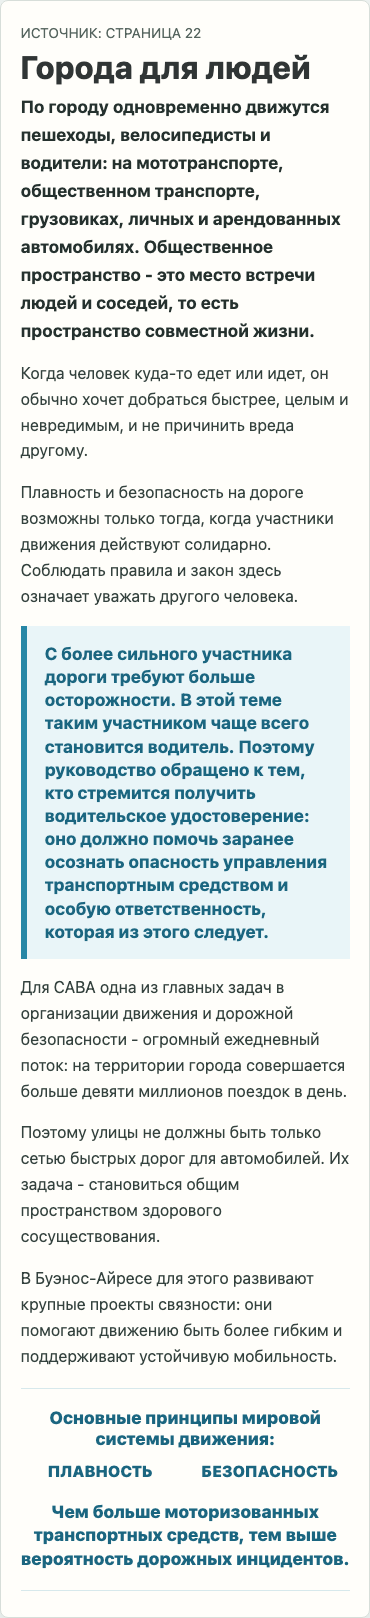
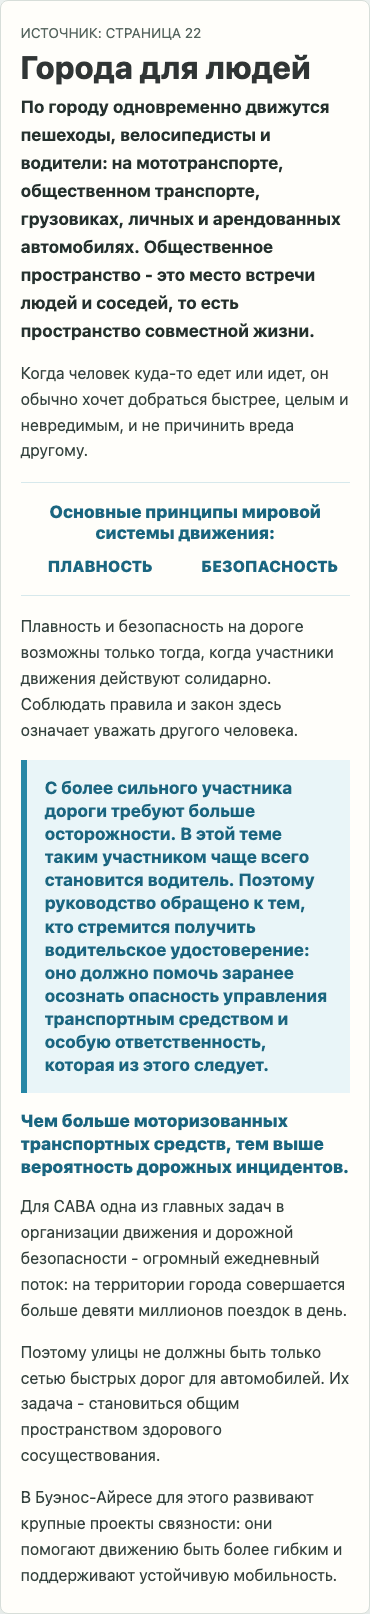
Restore Chapter 1 principles crop order

diff --git a/src/data/manual-sections/ch1-cities-for-people.ts b/src/data/manual-sections/ch1-cities-for-people.ts
@@ -41,6 +41,26 @@ export const ch1CitiesForPeopleSection: ManualGuideSectionContent = {
         "Когда человек куда-то едет или идет, он обычно хочет добраться быстрее, целым и невредимым, и не причинить вреда другому."
     },
     {
+      id: "traffic-system-principles",
+      kind: "principle-pair",
+      sourceTextEs: "Principios básicos del sistema de tránsito mundial: FLUIDEZ SEGURIDAD",
+      titleRu: "Основные принципы мировой системы движения:",
+      sourcePage: 22,
+      sourceRegion: {
+        x: 403,
+        y: 645,
+        width: 390,
+        height: 92
+      },
+      leftRu: "ПЛАВНОСТЬ",
+      rightRu: "БЕЗОПАСНОСТЬ",
+      visualNotes: [
+        "Centered teal source heading and two balanced terms preserved as text.",
+        "Russian labels remain selectable DOM text, not an image crop.",
+        "Placed immediately after the safe-arrival paragraph to match source crop/page layout."
+      ]
+    },
+    {
       id: "solidarity-law-respect",
       kind: "paragraph",
       sourceTextEs:
@@ -55,6 +75,14 @@ export const ch1CitiesForPeopleSection: ManualGuideSectionContent = {
         "Un antiguo principio legal indica que se le debe pedir más cuidado al más fuerte... a quien conduce. Por eso, este manual está destinado a aquellas personas que aspiran a obtener su licencia de conducir: para que tomen conciencia de la peligrosidad que implica conducir un vehículo y de la especial responsabilidad que ello conlleva.",
       textRu:
         "С более сильного участника дороги требуют больше осторожности. В этой теме таким участником чаще всего становится водитель. Поэтому руководство обращено к тем, кто стремится получить водительское удостоверение: оно должно помочь заранее осознать опасность управления транспортным средством и особую ответственность, которая из этого следует."
+    },
+    {
+      id: "motorized-crash-likelihood",
+      kind: "principle-note",
+      sourceTextEs:
+        "A mayor cantidad de vehículos motorizados, mayor probabilidad de siniestralidad.",
+      textRu:
+        "Чем больше моторизованных транспортных средств, тем выше вероятность дорожных инцидентов."
     },
     {
       id: "nine-million-trips",
@@ -79,28 +107,6 @@ export const ch1CitiesForPeopleSection: ManualGuideSectionContent = {
         "En la Ciudad de Buenos Aires, se desarrollan obras de conectividad... promueven una movilidad sustentable.",
       textRu:
         "В Буэнос-Айресе для этого развивают крупные проекты связности: они помогают движению быть более гибким и поддерживают устойчивую мобильность."
-    },
-    {
-      id: "traffic-system-principles",
-      kind: "principle-pair",
-      sourceTextEs: "Principios básicos del sistema de tránsito mundial: FLUIDEZ SEGURIDAD",
-      titleRu: "Основные принципы мировой системы движения:",
-      sourcePage: 22,
-      sourceRegion: {
-        x: 403,
-        y: 645,
-        width: 390,
-        height: 92
-      },
-      leftRu: "ПЛАВНОСТЬ",
-      rightRu: "БЕЗОПАСНОСТЬ",
-      closingRu:
-        "Чем больше моторизованных транспортных средств, тем выше вероятность дорожных инцидентов.",
-      visualNotes: [
-        "Centered teal source heading and two balanced terms preserved as text.",
-        "Russian labels remain selectable DOM text, not an image crop.",
-        "Closing crash-likelihood idea keeps the source blue emphasis without visible Spanish."
-      ]
     }
   ]
 };

diff --git a/src/App.tsx b/src/App.tsx
@@ -1898,8 +1898,15 @@ function ManualGuideSectionContentView({ content }: { content: ManualGuideSectio
                   <strong>{block.leftRu}</strong>
                   <strong>{block.rightRu}</strong>
                 </div>
-                <p>{block.closingRu}</p>
+                {block.closingRu && <p>{block.closingRu}</p>}
               </section>
+            );
+          }
+          if (block.kind === "principle-note") {
+            return (
+              <p key={block.id} className="intro-doc-block manual-principle-note" data-testid="manual-guide-section-block" data-block-kind={block.kind} data-block-id={block.id}>
+                {block.textRu}
+              </p>
             );
           }
 

diff --git a/src/styles.css b/src/styles.css
@@ -1535,6 +1535,14 @@ small,
   line-height: 1.34;
 }
 
+.manual-principle-note {
+  max-width: min(34rem, 100%);
+  color: #1b6680;
+  font-size: 1.18rem;
+  font-weight: 850;
+  line-height: 1.34;
+}
+
 .manual-guide-source-artwork img {
   display: block;
   max-width: 100%;
@@ -2831,6 +2839,10 @@ small,
   }
 
   .manual-principle-pair p {
+    font-size: 1.08rem;
+  }
+
+  .manual-principle-note {
     font-size: 1.08rem;
   }
 

diff --git a/src/data/manualGuide.ts b/src/data/manualGuide.ts
@@ -166,8 +166,14 @@ export type ManualGuideContentBlock =
       };
       leftRu: string;
       rightRu: string;
-      closingRu: string;
+      closingRu?: string;
       visualNotes: string[];
+    }
+  | {
+      id: string;
+      kind: "principle-note";
+      textRu: string;
+      sourceTextEs: string;
     };
 
 export type ManualGuideSectionContent = {

diff --git a/specs/030-manual-chapters-1-2/tasks.md b/specs/030-manual-chapters-1-2/tasks.md
@@ -82,7 +82,8 @@ For each section key:
 - [x] Added focused content and e2e tests for route activation, implemented-vs-pending state, source coverage, no page-021/page-043/page-056 routes, no unrelated section implementation, selectable principle text, responsive/no-overflow checks, and no visible Spanish in the rendered section.
 - [x] Finalized implementation commit/push and opened ready PR metadata for this slice; implementation content head before this PR-metadata evidence update is `9ec2a7e39d0316caf16a9793f090635d5d5cff9f`.
 - [x] Addressed PR #177 P2 review thread `PRRT_kwDOSX65IM6F14fY` / `discussion_r3328114426` by preserving the omitted source page 22 block-05 sentence about license applicants understanding the danger of driving and the special responsibility it entails.
-- [x] Addressed PR #177 AI Review P2 thread `PRRT_kwDOSX65IM6F17X6` / `discussion_r3328132240` by moving the `ПЛАВНОСТЬ / БЕЗОПАСНОСТЬ` principles visual/text block after the connectivity paragraph to match source page 22 order.
+- [x] Superseded PR #177 AI Review P2 thread `PRRT_kwDOSX65IM6F17X6` / `discussion_r3328132240` after Architect re-inspection: `manual.ru.json` extraction order places the principles text late, but source crop/page layout controls the visual/read order for this block.
+- [x] Addressed PR #177 AI Review P2 thread `PRRT_kwDOSX65IM6F2v9j` / `discussion_r3328424446` by restoring the `ПЛАВНОСТЬ / БЕЗОПАСНОСТЬ` visual immediately after `safe-arrival` per source crop/page layout, and by splitting the blue crash-likelihood statement into its own later block after `stronger-road-user-care`.
 
 ## Review Requirements
 
@@ -138,7 +139,8 @@ For each section key:
 - Implementation Agent decision for `ch1-cities-for-people`: the page has no source pictogram/photo/table requiring runtime image artwork. The meaningful visual relationship is the centered `FLUIDEZ / SEGURIDAD` typographic pair, so the learner view recreates it as selectable Russian DOM text (`ПЛАВНОСТЬ` / `БЕЗОПАСНОСТЬ`) with source-teal emphasis and source-region evidence.
 - Implementation Agent decision for `ch1-cities-for-people`: the source page crop is committed only as internal reference evidence under `content/validation/manual-guide/ch1-cities-for-people/`; the learner UI does not render the Spanish crop, full source page raster, broad masks, page chrome, or page marker.
 - Implementation Agent review-fix decision for PR #177 P2 `PRRT_kwDOSX65IM6F14fY` / `discussion_r3328114426`: keep the omitted source page 22 block-05 license-applicant sentence inside the existing stronger-road-user callout, immediately after the stronger-user/driver responsibility idea, because it is the continuation of that source paragraph and does not create a new section or visual block.
-- Implementation Agent review-fix decision for PR #177 AI Review P2 `PRRT_kwDOSX65IM6F17X6` / `discussion_r3328132240`: source page 22 places `Principios básicos... / FLUIDEZ / SEGURIDAD` after the connectivity paragraph, so the existing selectable `ПЛАВНОСТЬ / БЕЗОПАСНОСТЬ` DOM visual is moved to that same end-of-section position while preserving its source-region metadata, styling, and responsive behavior.
+- Architect disposition for PR #177 source-order conflict `PRRT_kwDOSX65IM6F17X6` / `discussion_r3328132240` and `PRRT_kwDOSX65IM6F2v9j` / `discussion_r3328424446`: source crop/page layout controls over `manual.ru.json` PDF extraction order for the visual/read order of the principles block. Implementation Agent must place the selectable `ПЛАВНОСТЬ / БЕЗОПАСНОСТЬ` DOM visual immediately after `safe-arrival` and before `solidarity-law-respect`, matching the source crop. The crash-likelihood blue statement must remain after the stronger-road-user/license-responsibility paragraph and before the nine-million-trips paragraph, split from the principles block if needed. The earlier extracted-order AI P2 is superseded/acceptable once this source-crop order is restored.
+- Implementation Agent review-fix decision for PR #177 AI Review P2 `PRRT_kwDOSX65IM6F2v9j` / `discussion_r3328424446`: preserve the existing source-faithful `principle-pair` visual as a selectable DOM text block in the crop-order position, make its closing sentence optional, and add a separate blue `principle-note` block for `Чем больше моторизованных транспортных средств...` immediately after `stronger-road-user-care` and before `nine-million-trips`.
 
 ### Known Issues
 
@@ -150,6 +152,8 @@ For each section key:
 - Section `ch2-scoring` source-boundary issue from current-head AI Review P1 `PRRT_kwDOSX65IM6F1edn` / `discussion_r3327958510`: resolved by implementation follow-up in PR #176. Registry/tests/evidence now assign Scoring to source PDF page `55`, assign `ch2-incident-obligations` only the pre-Scoring page-55 layout blocks, and skip page `56` as non-section closing slogan material. Final Architect/Analyst validation still must rerun after this non-evidence fix.
 - No unresolved known issues for local `ch1-cities-for-people` implementation at the time of this process-memory update.
 - Stale validation notice for PR #177: prior final Architect/Analyst validation for effective content head `499aa8547f7d13b3b9819cbd0d2e8650fa99da06` is stale after non-evidence source-order content fix `PRRT_kwDOSX65IM6F17X6` / `discussion_r3328132240`; final Architect and Analyst validation must rerun after this fix is pushed and review/check gates settle.
+- PR #177 current-head source-order conflict at `b1117ddee0e71a72ce4d8416c39b406161cf3eb2`: Architect disposition: addressed; current placement of the principles visual after connectivity follows PDF text extraction rather than the source crop, so Implementation Agent must restore source-crop order and final Architect/Analyst validation must rerun after the non-evidence fix.
+- PR #177 current-head source-order conflict `PRRT_kwDOSX65IM6F2v9j` / `discussion_r3328424446`: fixed locally by restoring source-crop order; final Architect/Analyst validation remains stale and must rerun on the post-fix head after review/check gates settle.
 
 ### Verification Evidence
 
@@ -197,6 +201,9 @@ For each section key:
 - PR #177 source-order P2 source inspection: GitHub review thread `PRRT_kwDOSX65IM6F17X6` / `discussion_r3328132240` was open and current at `src/data/manual-sections/ch1-cities-for-people.ts:45`; `manual.ru.json` page `22` shows `Principios básicos del sistema de tránsito mundial: FLUIDEZ SEGURIDAD` after the solidarity, stronger-road-user/license-responsibility, nine-million-trips, streets-as-shared-space, and connectivity paragraphs.
 - PR #177 source-order P2 implementation: moved existing content block `traffic-system-principles` after `connectivity-sustainable-mobility`, added a content-test source-order assertion, refreshed the section module SHA in `section-registry.chapters-1-2.json`, and regenerated desktop/mobile screenshots because the visual order/layout changed.
 - PR #177 source-order P2 verification passed: `node scripts/manual-guide-source-fidelity.mjs`; `node --test tests/content-manual-guide-chapters.test.mjs` (`17/17`); `pnpm run build`; `pnpm exec playwright test tests/e2e/app.spec.ts -g "Manual guide exposes Chapter 1 cities"` (`2/2`); `git diff --check`; `node scripts/check-feature-memory.mjs --worktree`. First feature-memory gate attempt failed because this source-order product/test change had not yet been recorded in process memory; rerun passed after this update.
+- Architect source-order inspection for PR #177 current head `b1117ddee0e71a72ce4d8416c39b406161cf3eb2`: visual inspection of `content/validation/manual-guide/ch1-cities-for-people/page-022-cities-for-people-source-crop.jpg` shows the teal `FLUIDEZ / SEGURIDAD` pair immediately after the safe-arrival paragraph and before solidarity/driver-duty prose, while `manual.ru.json` extracts those words later. Source crop/layout order is therefore the controlling source-fidelity input for this visual block.
+- PR #177 crop-order source-order fix implementation: restored `traffic-system-principles` immediately after `safe-arrival`, added `motorized-crash-likelihood` as a separate blue `principle-note` after `stronger-road-user-care`, updated the renderer/type/CSS for optional principle closings and the new note block, updated content tests to assert crop-order block sequence and blue note styling, refreshed the section module SHA in `section-registry.chapters-1-2.json`, and regenerated desktop/mobile screenshots.
+- PR #177 crop-order source-order fix verification passed: `node scripts/manual-guide-source-fidelity.mjs`; `node --test tests/content-manual-guide-chapters.test.mjs` (`17/17`); `pnpm run build`; `pnpm exec playwright test tests/e2e/app.spec.ts -g "Manual guide exposes Chapter 1 cities"` (`2/2`); `git diff --check`; `node scripts/check-feature-memory.mjs --worktree`.
 
 ### Cycle PR Set
 
@@ -205,7 +212,7 @@ For each section key:
 | section-requirement-correction | Architect memory correction from source-PDF-page slicing to website-section slicing, carried by this shared correction branch | `codex/030-section-requirement-correction` | PR #176, `https://github.com/cucumberfalse/cabadrive/pull/176` | post-P1 implementation head to be reported by Implementation Agent after commit/push; prior validated head `8a435c84166e4c001220ddc70624abaa8017c96b` is stale after current-head P1 `PRRT_kwDOSX65IM6F1edn` | P1 Scoring source-boundary fix implemented locally; final validation rerun pending after push | yes |
 | shared-section-prereq | Shared correction/prerequisite for section registry/routes/checker/style, no section content | `codex/030-section-requirement-correction` | PR #176, `https://github.com/cucumberfalse/cabadrive/pull/176` | post-P1 implementation head to be reported by Implementation Agent after commit/push | Scoring source-boundary registry/test fix implemented locally; review-thread/final-validation state pending Orchestrator routing | yes |
 | PR-175-page-021-disposition | Existing PR #175 / `page-021` divider-only implementation | `codex/030-page-021` | PR #175, `https://github.com/cucumberfalse/cabadrive/pull/175` | `1e8334676ba26d867194dcc9b884758465837959` | closed unmerged, superseded by corrected section-based contract | no |
-| `ch1-cities-for-people` | Implement website section page `Ciudades para las personas` / `Города для людей` with source page `22` evidence and selectable `ПЛАВНОСТЬ / БЕЗОПАСНОСТЬ` visual | `codex/030-ch1-cities-for-people` | PR #177, `https://github.com/cucumberfalse/cabadrive/pull/177` | prior effective content head `499aa8547f7d13b3b9819cbd0d2e8650fa99da06` is stale after source-order P2; final source-order fix head reported after push | source-order P2 implemented locally; focused checker/content/build/Playwright, diff hygiene, and feature-memory check passed; final validation must rerun | yes |
+| `ch1-cities-for-people` | Implement website section page `Ciudades para las personas` / `Города для людей` with source page `22` evidence and selectable `ПЛАВНОСТЬ / БЕЗОПАСНОСТЬ` visual | `codex/030-ch1-cities-for-people` | PR #177, `https://github.com/cucumberfalse/cabadrive/pull/177` | prior effective content head `499aa8547f7d13b3b9819cbd0d2e8650fa99da06` is stale after source-order P2; final crop-order fix head reported after push | crop-order fix implemented locally; focused checker/content/build/Playwright, diff hygiene, and feature-memory check passed; final validation must rerun | yes |
 | `ch1-sustainable-mobility` | Implement website section page `¿Qué es la movilidad sustentable?` | pending Orchestrator assignment | pending | pending | pending | yes |
 | `ch1-pedestrian-priority` | Implement website section page `Prioridad peatonal` | pending Orchestrator assignment | pending | pending | pending | yes |
 | `ch1-bicycle` | Implement website section page `Bicicleta` | pending Orchestrator assignment | pending | pending | pending | yes |
@@ -239,6 +246,7 @@ For each section key:
 - Analyst feedback Architect disposition: none.
 - Limit escalation: none.
 - Stale validation notice: final Architect and Analyst validation for effective content head `499aa8547f7d13b3b9819cbd0d2e8650fa99da06` is stale after non-evidence content fix `PRRT_kwDOSX65IM6F17X6` / `discussion_r3328132240`; Architect and Analyst validation must rerun on the post-fix effective content head before completion, finalization, or merge.
+- Stale validation notice: final Architect/Analyst validation for PR #177 remains stale after current-head source-order conflict `PRRT_kwDOSX65IM6F2v9j` / `discussion_r3328424446`; validation must rerun after Implementation restores source-crop order for the principles visual.
 
 ### Cleanup Evidence
 
@@ -249,7 +257,9 @@ For each section key:
 - No unresolved Implementation Agent feedback for this shared correction/prerequisite pass.
 - No unresolved Implementation Agent feedback for the `ch1-cities-for-people` section slice at the time of local verification.
 - PR #177 P2 review thread `PRRT_kwDOSX65IM6F14fY` / `discussion_r3328114426` is safe for Orchestrator/Review routing to resolve after the review-fix commit is pushed and current-head checks complete.
-- PR #177 AI Review P2 thread `PRRT_kwDOSX65IM6F17X6` / `discussion_r3328132240` is expected to be safe for Orchestrator/Review routing to resolve after the source-order fix commit is pushed, current-head checks complete, and Review/AI Review confirms no remaining finding.
+- Architect disposition: addressed; PR #177 AI Review P2 thread `PRRT_kwDOSX65IM6F17X6` / `discussion_r3328132240` is superseded because it followed `manual.ru.json` extraction order instead of source crop/page layout, and it can be treated as acceptable/outdated once Implementation restores the crop-order principles visual.
+- PR #177 AI Review P2 thread `PRRT_kwDOSX65IM6F2v9j` / `discussion_r3328424446` is expected to be safe for Orchestrator/Review routing to resolve after this crop-order fix is pushed, current-head checks complete, and AI Review confirms no remaining source-order finding.
+- Architect disposition: addressed; PR #177 AI Review P2 thread `PRRT_kwDOSX65IM6F2v9j` / `discussion_r3328424446` is valid for current head `b1117ddee0e71a72ce4d8416c39b406161cf3eb2`, and Implementation Agent must restore the `ПЛАВНОСТЬ / БЕЗОПАСНОСТЬ` visual to the source-crop position before rerunning validation.
 
 ## Architect Dispositions
 
@@ -258,6 +268,7 @@ For each section key:
 - Architect disposition: addressed; PR #175 / `page-021` must not merge as-is and must be closed, superseded, or replaced by section-based implementation.
 - Architect disposition: addressed; infographic/source-artwork quality remains a first-class gate for each section PR.
 - Architect disposition: addressed; current-head AI Review P1 `PRRT_kwDOSX65IM6F1edn` / `discussion_r3327958510` requires Implementation Agent to move `ch2-scoring` registry/evidence from source PDF page `56` to the Scoring block on source PDF page `55`, keep `ch2-incident-obligations` page-55 ownership region before Scoring only, and treat page `56` as non-Scoring closing slogan material.
+- Architect disposition: addressed; for PR #177 `ch1-cities-for-people`, source crop/page layout controls over `manual.ru.json` extraction order for the `FLUIDEZ / SEGURIDAD` principles visual. Implementation Agent must move the selectable `ПЛАВНОСТЬ / БЕЗОПАСНОСТЬ` block back immediately after `safe-arrival` and before `solidarity-law-respect`, and keep the crash-likelihood blue statement after `stronger-road-user-care` and before `nine-million-trips`, splitting the statement from the principles block if needed.
 
 ## Historical Final Architect Validation Notes
 
